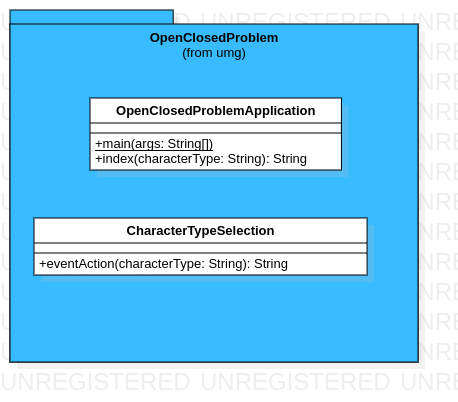
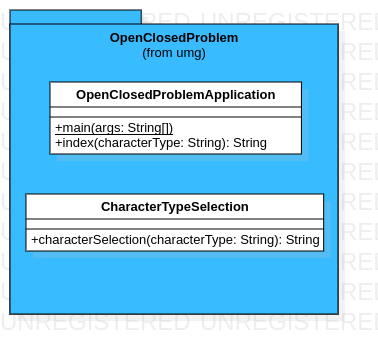
Se han realizado correciones en codigo segun sonarqube

Changed region(s): [[0.0, 0.0, 0.9312, 0.9011], [0.1164, 0.2175, 0.8148, 0.4661]]

diff --git a/OpenClosedProblem/src/main/java/gt/edu/umg/OpenClosedProblem/OpenClosedProblemApplication.java b/OpenClosedProblem/src/main/java/gt/edu/umg/OpenClosedProblem/OpenClosedProblemApplication.java
@@ -1,15 +1,10 @@
 package gt.edu.umg.OpenClosedProblem;
 
-import java.util.*;
 import org.springframework.boot.SpringApplication;
 import org.springframework.boot.autoconfigure.SpringBootApplication;
-import org.springframework.web.bind.annotation.RequestMapping;
+import org.springframework.web.bind.annotation.GetMapping;
 import org.springframework.web.bind.annotation.RequestParam;
 import org.springframework.web.bind.annotation.RestController;
-
-/**
- * 
- */
 
 @SpringBootApplication
 
@@ -17,29 +12,24 @@ import org.springframework.web.bind.annotation.RestController;
 public class OpenClosedProblemApplication {
 
     /**
-     * Default constructor
-     */
-    public OpenClosedProblemApplication() {
-    }
-
-    /**
      * @param args
      */
     public static void main(String[] args) {
-        // TODO implement here
         SpringApplication.run(OpenClosedProblemApplication.class, args);
     }
 
     /**
-     * @param characterType 
+     * @param characterName
      * @return
      */
-    @RequestMapping("/")
-    public String index(@RequestParam(defaultValue = "Protagonist") String characterType) {
-        // TODO implement here
-        CharacterTypeSelection event = new CharacterTypeSelection();
-        
-        return event.eventAction(characterType);
+    @GetMapping("/")
+    public String index(@RequestParam(defaultValue = "Daniel") String characterName) {
+        CharacterTypeSelection role = new CharacterTypeSelection();       
+        String text = "";   
+        text += characterName + role.characterSelection("protagonist");
+        text += "<br>";
+        text += "Voldemort " + role.characterSelection("antagonist");
+        return text;
     }
 
 }

diff --git a/OpenClosedProblem/src/main/java/gt/edu/umg/OpenClosedProblem/CharacterTypeSelection.java b/OpenClosedProblem/src/main/java/gt/edu/umg/OpenClosedProblem/CharacterTypeSelection.java
@@ -1,27 +1,15 @@
 package gt.edu.umg.OpenClosedProblem;
 
-import java.util.*;
-
-/**
- * 
- */
 public class CharacterTypeSelection {
-
-    /**
-     * Default constructor
-     */
-    public CharacterTypeSelection() {
-    }
 
     /**
      * @param characterType 
      * @return
      */
     /*de ser necesario un nuevo tipo de personaje se debe modificar este archivo e incluirlo al switch case*/
-    public String eventAction(String characterType) {
-        // TODO implement here
+    public String characterSelection(String characterType) {
         String text = new String();
-        switch(characterType.toLowerCase()){
+        switch(characterType){
             case "protagonist":{
                 text += "Hi protagonist. Your role is save the world!!!!!!";
                 break;
